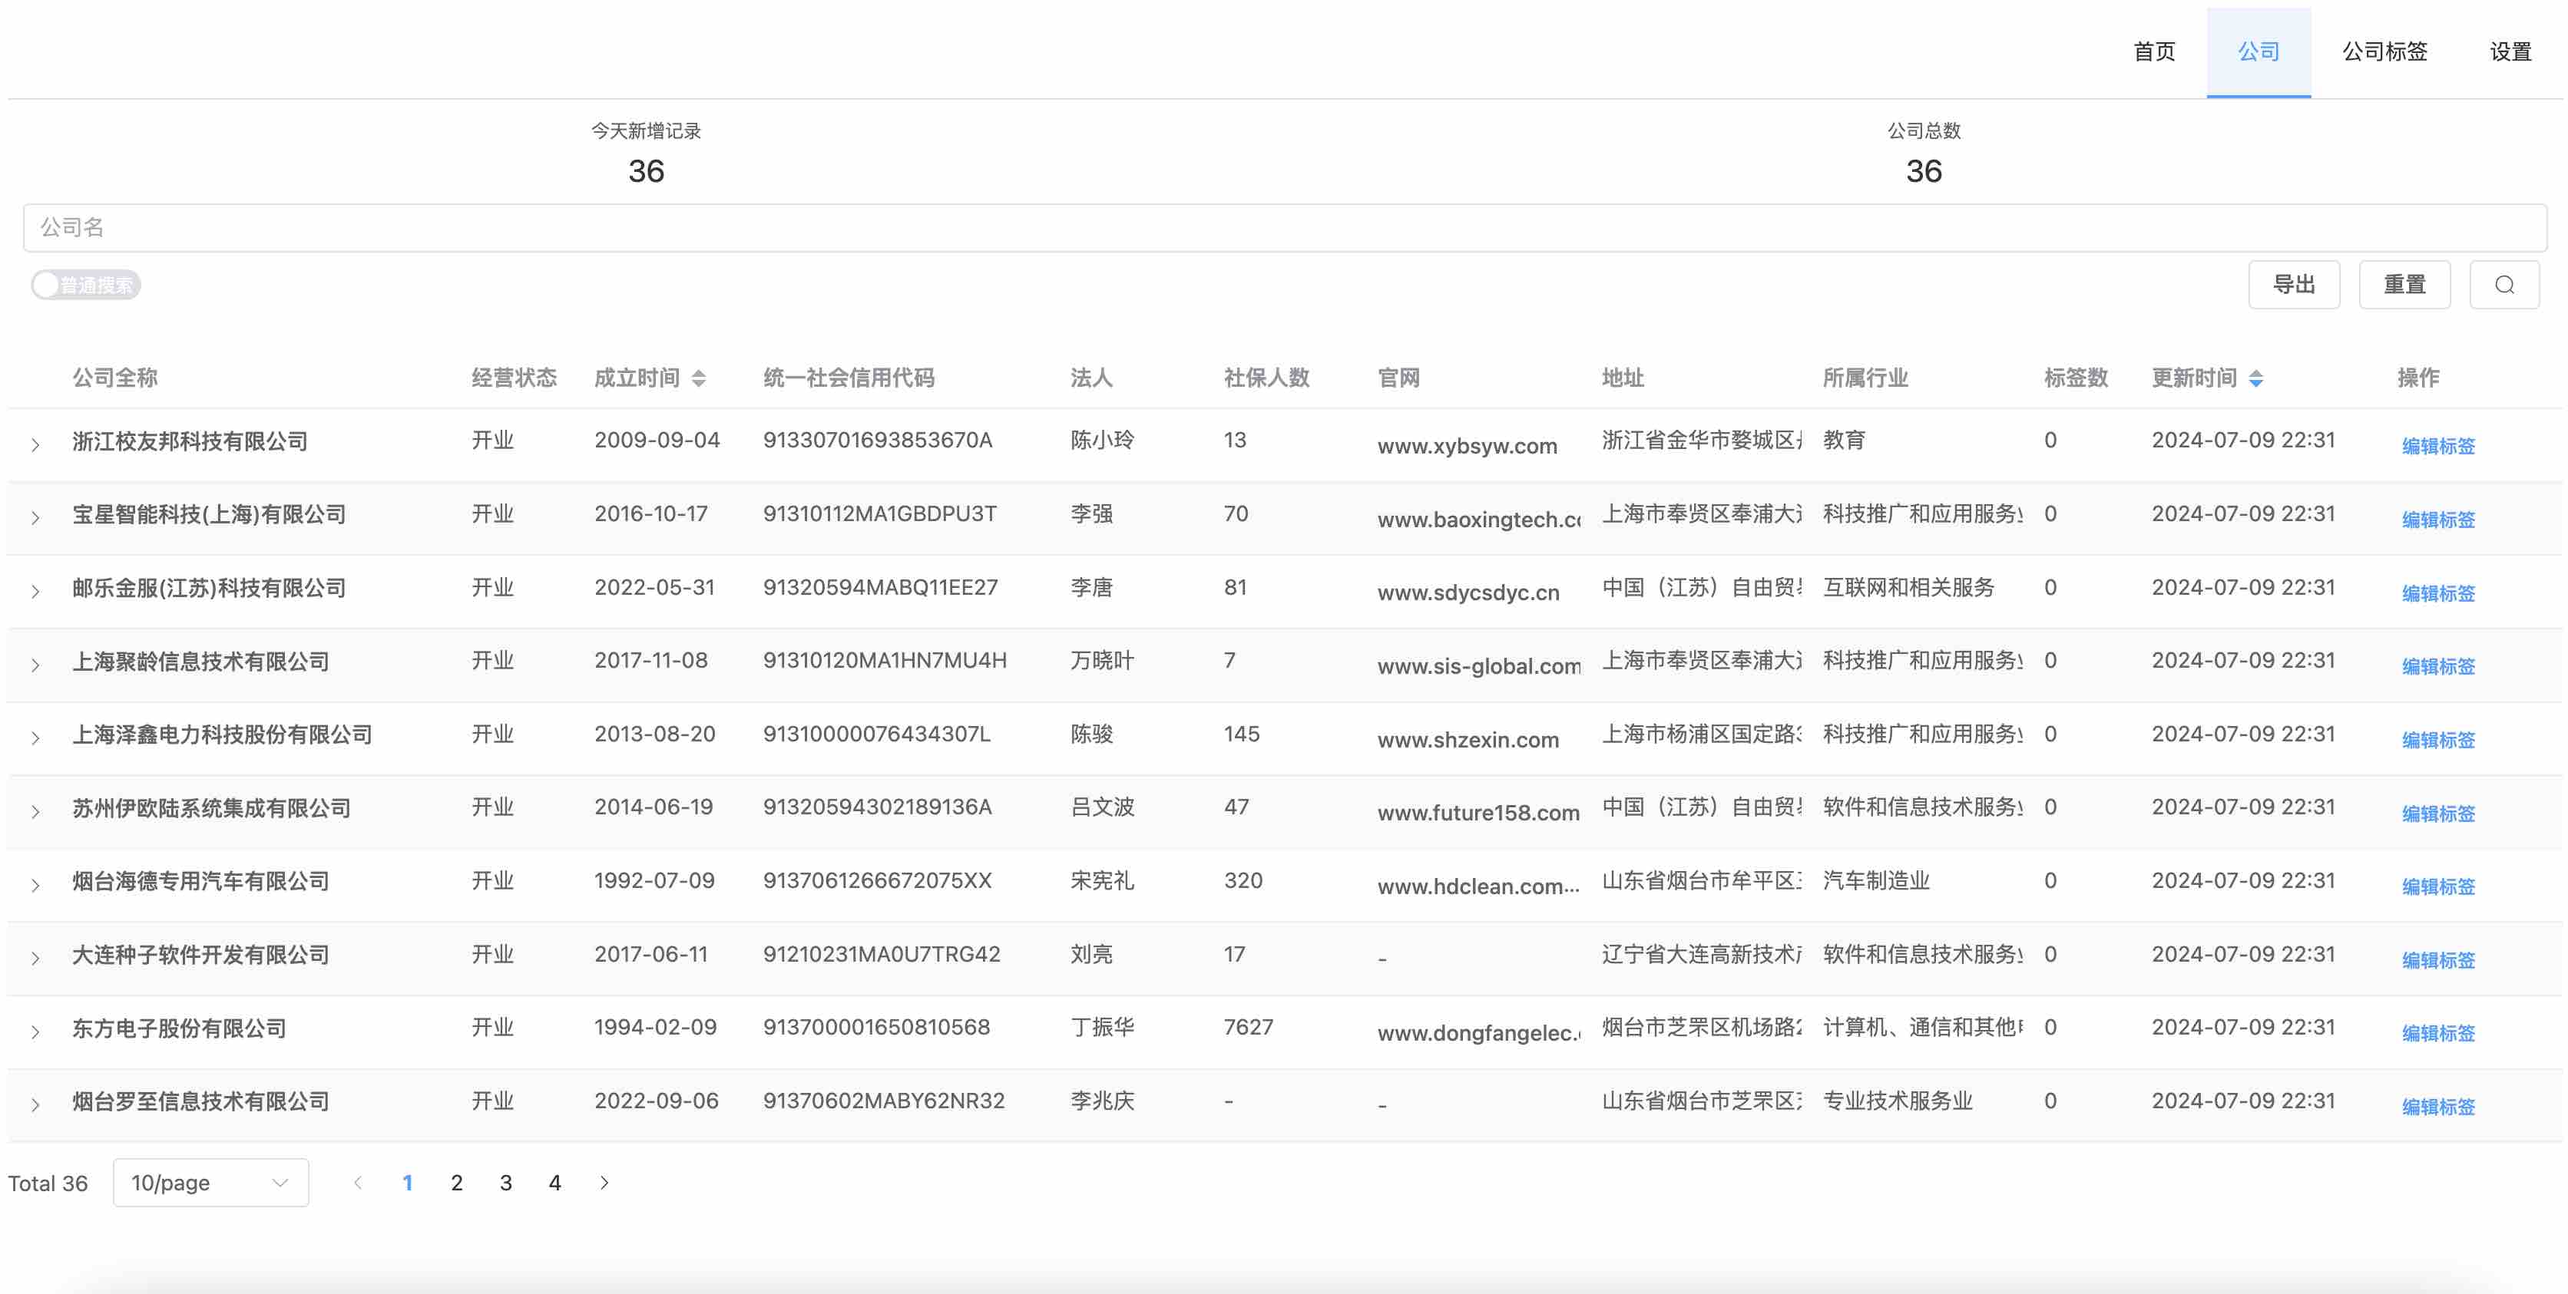
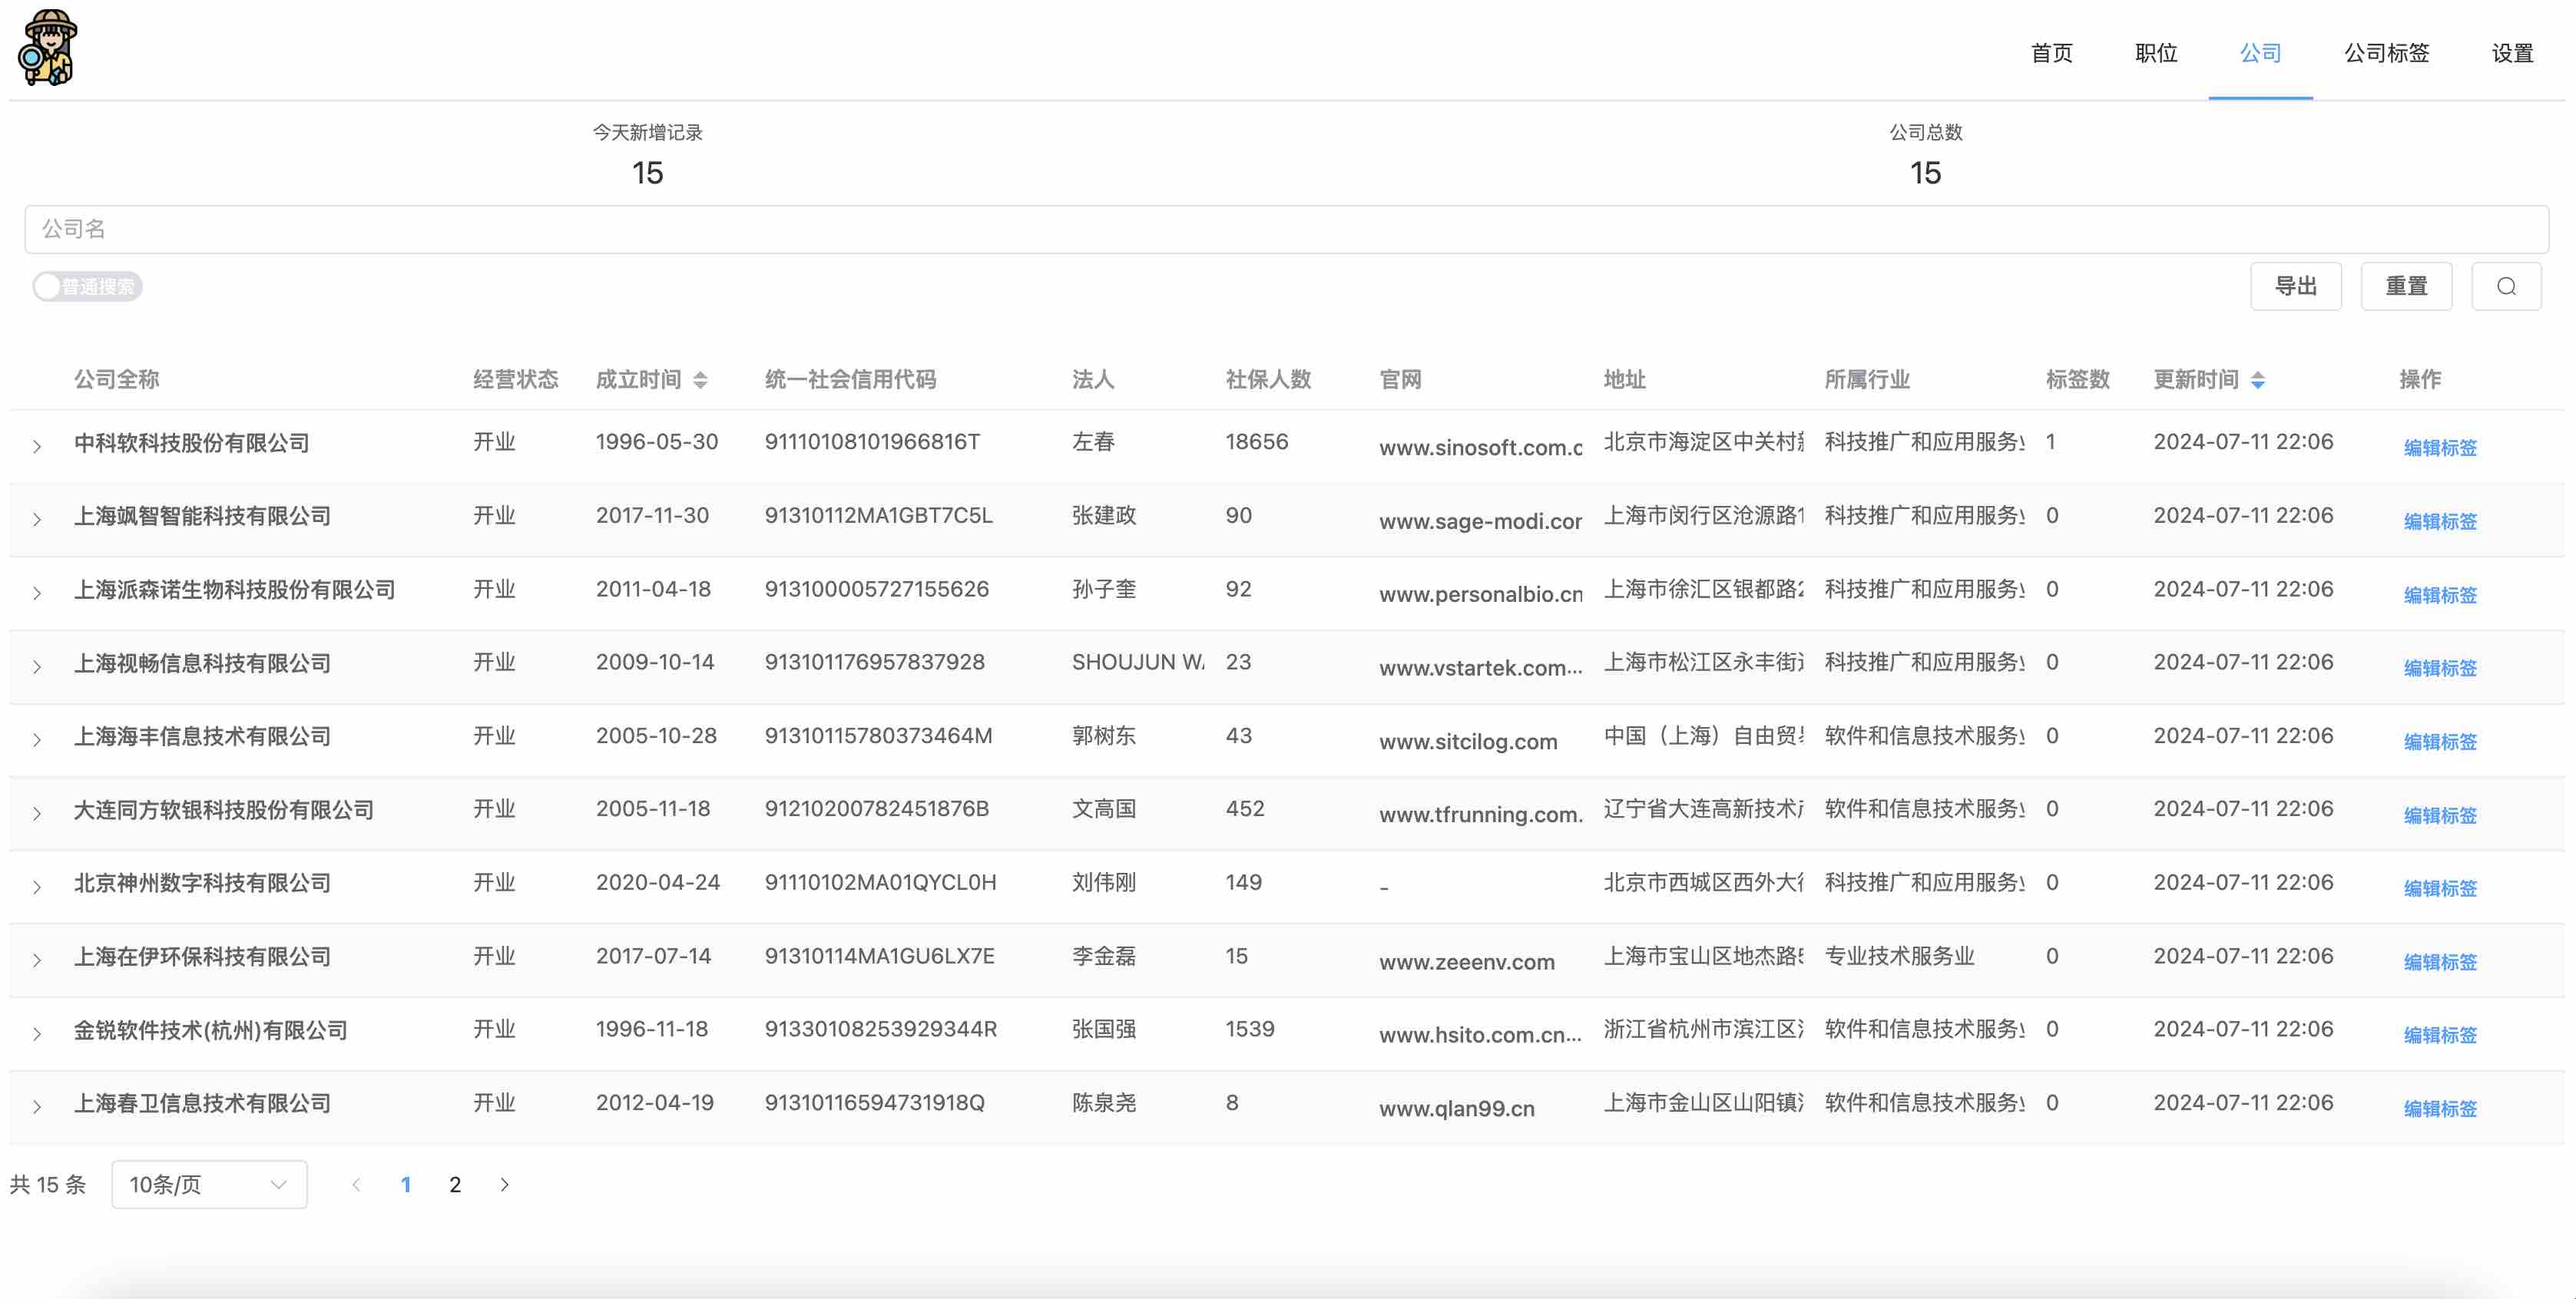
docs: add admin home page desc and update all admin page pic

diff --git a/README.md b/README.md
@@ -39,6 +39,7 @@
 12. 公司标签数据管理页面，公司标签数据导出，导入。
 13. 公司数据管理页面，公司数据导出，导入。
 14. 增强爱企查企业搜索页面。（显示额外信息，公司数据同步，公司标签编辑）
+15. 首页展示最近查看职位以及在地图上显示，招聘网站和企业搜索网站的快捷入口。
 
 ## Browsers support
 
@@ -78,7 +79,13 @@
     <div style="margin-top:20px">
         <img src="docs\introduction\sidepanel_admin_home.jpg" alt="sidepanel_admin_home" width="1000px"/>
         <div style="text-align:center">
-            管理页面（需点击插件图标打开）
+            管理页面首页（需点击插件图标打开）
+        </div>
+	</div>
+    <div style="margin-top:20px">
+        <img src="docs\introduction\sidepanel_admin_job.jpg" alt="sidepanel_admin_job" width="1000px"/>
+        <div style="text-align:center">
+            职位
         </div>
 	</div>
     <div style="margin-top:20px">
